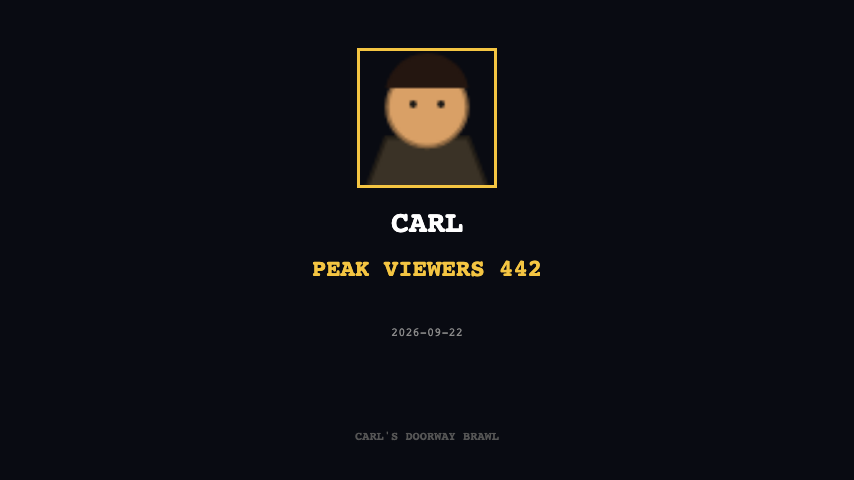
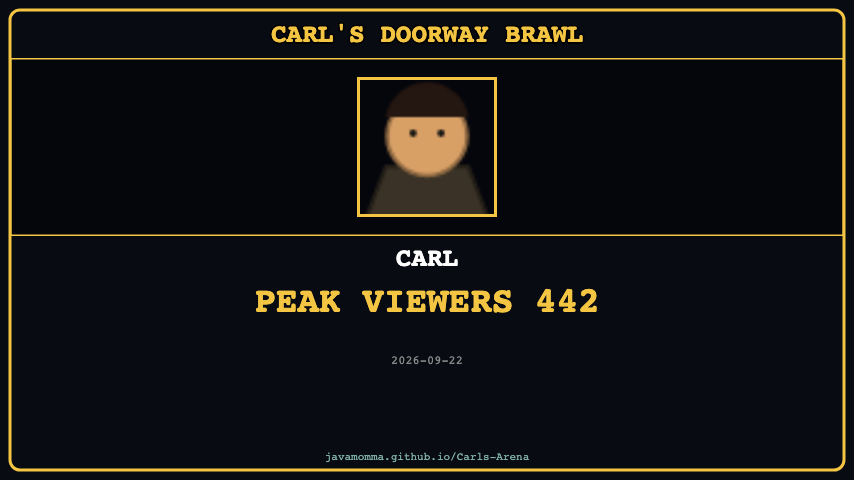
art: redesign the share card with a gold frame and dark stage strip
The share card was flat portrait/name/PEAK VIEWERS/date on plain
#090b12, over half of 854x480 empty -- the only artifact players post
publicly (final review Minor #8).

Redesigned G.shareCard(): a gold card frame at the HUD's own hpBar/
portrait stroke weight and color, a dark stage strip behind the
portrait (same read as the in-fight HUD's portrait-on-dark-stage), the
game's own title glyph at the top, PEAK VIEWERS sized up as the card's
headline stat, floor/boss-or-streak and date unchanged in substance,
and the play URL (a new G.PLAY_URL constant, matching README.md's own
link) in small text at the bottom. --share still asserts an 854x480
PNG (unchanged pixel dimensions, only the drawn content moved).
docs/shots/p5-share.png regenerated and viewed.

Changed region(s): [[0.0, 0.0, 1.0, 1.0], [0.4567, 0.6875, 0.548, 0.7812]]

diff --git a/index.html b/index.html
@@ -4146,35 +4146,62 @@ const G={state:'TITLE',fight:null,encounter:null,acc:0,last:0,sim:false,debug:fa
     if(r.xp)parts.push('+'+r.xp+' XP');
     if(r.units)parts.push('+'+r.units+' UNITS');
     return parts.join('  ')},
-  // Task 5.4: an 854x480 offscreen canvas (never attached to the DOM — a share card renders exactly
-  // like a screenshot, with no live #wrap/#btns/overlay chrome in it) summarizing the just-finished
-  // (or in-progress; nothing here requires f.over) fight: champion portrait, name, PEAK VIEWERS,
-  // floor/boss-or-streak, and today's date via Meta.today() (never a raw Date/performance.now() —
-  // same injectable-clock rule Meta.today() itself already enforces). Returns a PNG data URL;
-  // G.share() (below) is the one real caller, tests/harness.py's --share calls this directly.
+  // Fix-wave item 8 (final review, Minor): the play URL, in one place so the share card and any
+  // future caller stay in sync with README.md's own "Play it now" link.
+  PLAY_URL:'javamomma.github.io/Carls-Arena',
+  // Task 5.4 (redesigned per fix-wave item 8): an 854x480 offscreen canvas (never attached to the
+  // DOM — a share card renders exactly like a screenshot, with no live #wrap/#btns/overlay chrome in
+  // it) summarizing the just-finished (or in-progress; nothing here requires f.over) fight. The final
+  // review called the original layout thin (portrait/name/peak-viewers/date on flat #090b12, over
+  // half the frame empty) for the only artifact players post publicly -- this pass gives it a gold
+  // card frame (the HUD's own hpBar/portrait stroke weight and color, not a new style), a dark stage
+  // strip behind the portrait (mirrors the in-fight HUD's own portrait-on-dark-stage read), the
+  // game's own title glyph up top, a larger PEAK VIEWERS line, and the play URL in small text at the
+  // bottom so a screenshot of this card is itself an invitation. Returns a PNG data URL; G.share()
+  // (below) is the one real caller, tests/harness.py's --share calls this directly.
   shareCard(){
     const cv=document.createElement('canvas');cv.width=854;cv.height=480;
     const c=cv.getContext('2d');
+    const inset=10;
     c.fillStyle='#090b12';c.fillRect(0,0,cv.width,cv.height);
+    // Title glyph: the game's own name, bold/gold/black-stroked -- same "condensed FIGHTER wordmark"
+    // treatment the in-fight HUD bakes into Render.hudCache().title, redrawn plain here since a
+    // share card is built once per click, not once per frame.
+    c.textAlign='center';c.textBaseline='alphabetic';c.font='900 26px ui-monospace,monospace';
+    c.lineWidth=4;c.strokeStyle='#000';c.strokeText("CARL'S DOORWAY BRAWL",cv.width/2,42);
+    c.fillStyle='#f4c542';c.fillText("CARL'S DOORWAY BRAWL",cv.width/2,42);
+    // Dark stage strip behind the portrait -- a band darker than the card's own background, the same
+    // read as the in-fight HUD's portrait sitting on the dungeon stage rather than flat black.
+    const stageY=58,stageH=178;
+    c.fillStyle='#05060c';c.fillRect(inset,stageY,cv.width-inset*2,stageH);
+    c.strokeStyle='#f4c542';c.lineWidth=1.5;c.strokeRect(inset+.75,stageY+.75,cv.width-inset*2-1.5,stageH-1.5);
     const champId=this.champ||Save.data.active,def=DEFS[champId];
     if(def){
-      const portrait=Rig.portrait(lookFor(def)),pw=140,ph=140,px=cv.width/2-pw/2,py=48;
+      const portrait=Rig.portrait(lookFor(def)),pw=140,ph=140,px=cv.width/2-pw/2,py=stageY+(stageH-ph)/2;
       c.drawImage(portrait,px,py,pw,ph);
       c.strokeStyle='#f4c542';c.lineWidth=3;c.strokeRect(px+1.5,py+1.5,pw-3,ph-3)}
-    c.textAlign='center';c.fillStyle='#fff';c.font='900 30px ui-monospace,monospace';
-    c.fillText(def?def.name:'CHAMPION',cv.width/2,232);
-    c.fillStyle='#f4c542';c.font='bold 24px ui-monospace,monospace';
-    c.fillText('PEAK VIEWERS '+Render.fmtViewers(Broadcast.state.peak||0),cv.width/2,276);
+    c.textAlign='center';c.fillStyle='#fff';c.font='900 26px ui-monospace,monospace';
+    c.fillText(def?def.name:'CHAMPION',cv.width/2,stageY+stageH+30);
+    // PEAK VIEWERS: the card's own headline stat, sized up from the original pass so it reads as the
+    // one number worth sharing, not one line among several the same size.
+    c.fillStyle='#f4c542';c.font='900 36px ui-monospace,monospace';
+    c.fillText('PEAK VIEWERS '+Render.fmtViewers(Broadcast.state.peak||0),cv.width/2,stageY+stageH+76);
     // floor/boss for a quest fight, streak for an arena one, nothing for a bare exhibition -- mirrors
     // onFightEnd's own mode/questTarget reads just below.
     let prog='';
     if(this.mode==='quest'&&this.questTarget)prog='FLOOR '+this.questTarget.floor+(this.questTarget.node==='boss'?' — BOSS':'');
     else if(this.mode==='arena')prog='STREAK '+(Save.data.arena.streak||0);
-    if(prog){c.font='16px ui-monospace,monospace';c.fillStyle='#ccc';c.fillText(prog,cv.width/2,308)}
+    if(prog){c.font='16px ui-monospace,monospace';c.fillStyle='#ccc';c.fillText(prog,cv.width/2,stageY+stageH+104)}
     c.font='12px ui-monospace,monospace';c.fillStyle='#888';
-    c.fillText(Meta.today(),cv.width/2,336);
-    c.font='bold 12px ui-monospace,monospace';c.fillStyle='#555';
-    c.fillText("CARL'S DOORWAY BRAWL",cv.width/2,440);
+    c.fillText(Meta.today(),cv.width/2,stageY+stageH+128);
+    // Play URL, small text near the bottom -- the card is itself an invitation, not just a trophy.
+    c.font='11px ui-monospace,monospace';c.fillStyle='#7fb0a8';
+    c.fillText(this.PLAY_URL,cv.width/2,cv.height-inset-10);
+    // Gold card frame, drawn last so it sits over the strip/stat text edges cleanly -- same stroke
+    // color/weight the HUD's own hpBar/portrait frames already use, just once around the whole card.
+    c.strokeStyle='#f4c542';c.lineWidth=3;
+    if(c.roundRect){c.beginPath();c.roundRect(inset,inset,cv.width-inset*2,cv.height-inset*2,10);c.stroke()}
+    else c.strokeRect(inset+1.5,inset+1.5,cv.width-inset*2-3,cv.height-inset*2-3);
     return cv.toDataURL('image/png')},
   // navigator.share({files:[...]}) when the platform supports sharing an actual file (most mobile
   // browsers); otherwise falls back to downloadShareCard's plain <a download> link, which every

diff --git a/src/80_game.js b/src/80_game.js
@@ -471,35 +471,62 @@ const G={state:'TITLE',fight:null,encounter:null,acc:0,last:0,sim:false,debug:fa
     if(r.xp)parts.push('+'+r.xp+' XP');
     if(r.units)parts.push('+'+r.units+' UNITS');
     return parts.join('  ')},
-  // Task 5.4: an 854x480 offscreen canvas (never attached to the DOM — a share card renders exactly
-  // like a screenshot, with no live #wrap/#btns/overlay chrome in it) summarizing the just-finished
-  // (or in-progress; nothing here requires f.over) fight: champion portrait, name, PEAK VIEWERS,
-  // floor/boss-or-streak, and today's date via Meta.today() (never a raw Date/performance.now() —
-  // same injectable-clock rule Meta.today() itself already enforces). Returns a PNG data URL;
-  // G.share() (below) is the one real caller, tests/harness.py's --share calls this directly.
+  // Fix-wave item 8 (final review, Minor): the play URL, in one place so the share card and any
+  // future caller stay in sync with README.md's own "Play it now" link.
+  PLAY_URL:'javamomma.github.io/Carls-Arena',
+  // Task 5.4 (redesigned per fix-wave item 8): an 854x480 offscreen canvas (never attached to the
+  // DOM — a share card renders exactly like a screenshot, with no live #wrap/#btns/overlay chrome in
+  // it) summarizing the just-finished (or in-progress; nothing here requires f.over) fight. The final
+  // review called the original layout thin (portrait/name/peak-viewers/date on flat #090b12, over
+  // half the frame empty) for the only artifact players post publicly -- this pass gives it a gold
+  // card frame (the HUD's own hpBar/portrait stroke weight and color, not a new style), a dark stage
+  // strip behind the portrait (mirrors the in-fight HUD's own portrait-on-dark-stage read), the
+  // game's own title glyph up top, a larger PEAK VIEWERS line, and the play URL in small text at the
+  // bottom so a screenshot of this card is itself an invitation. Returns a PNG data URL; G.share()
+  // (below) is the one real caller, tests/harness.py's --share calls this directly.
   shareCard(){
     const cv=document.createElement('canvas');cv.width=854;cv.height=480;
     const c=cv.getContext('2d');
+    const inset=10;
     c.fillStyle='#090b12';c.fillRect(0,0,cv.width,cv.height);
+    // Title glyph: the game's own name, bold/gold/black-stroked -- same "condensed FIGHTER wordmark"
+    // treatment the in-fight HUD bakes into Render.hudCache().title, redrawn plain here since a
+    // share card is built once per click, not once per frame.
+    c.textAlign='center';c.textBaseline='alphabetic';c.font='900 26px ui-monospace,monospace';
+    c.lineWidth=4;c.strokeStyle='#000';c.strokeText("CARL'S DOORWAY BRAWL",cv.width/2,42);
+    c.fillStyle='#f4c542';c.fillText("CARL'S DOORWAY BRAWL",cv.width/2,42);
+    // Dark stage strip behind the portrait -- a band darker than the card's own background, the same
+    // read as the in-fight HUD's portrait sitting on the dungeon stage rather than flat black.
+    const stageY=58,stageH=178;
+    c.fillStyle='#05060c';c.fillRect(inset,stageY,cv.width-inset*2,stageH);
+    c.strokeStyle='#f4c542';c.lineWidth=1.5;c.strokeRect(inset+.75,stageY+.75,cv.width-inset*2-1.5,stageH-1.5);
     const champId=this.champ||Save.data.active,def=DEFS[champId];
     if(def){
-      const portrait=Rig.portrait(lookFor(def)),pw=140,ph=140,px=cv.width/2-pw/2,py=48;
+      const portrait=Rig.portrait(lookFor(def)),pw=140,ph=140,px=cv.width/2-pw/2,py=stageY+(stageH-ph)/2;
       c.drawImage(portrait,px,py,pw,ph);
       c.strokeStyle='#f4c542';c.lineWidth=3;c.strokeRect(px+1.5,py+1.5,pw-3,ph-3)}
-    c.textAlign='center';c.fillStyle='#fff';c.font='900 30px ui-monospace,monospace';
-    c.fillText(def?def.name:'CHAMPION',cv.width/2,232);
-    c.fillStyle='#f4c542';c.font='bold 24px ui-monospace,monospace';
-    c.fillText('PEAK VIEWERS '+Render.fmtViewers(Broadcast.state.peak||0),cv.width/2,276);
+    c.textAlign='center';c.fillStyle='#fff';c.font='900 26px ui-monospace,monospace';
+    c.fillText(def?def.name:'CHAMPION',cv.width/2,stageY+stageH+30);
+    // PEAK VIEWERS: the card's own headline stat, sized up from the original pass so it reads as the
+    // one number worth sharing, not one line among several the same size.
+    c.fillStyle='#f4c542';c.font='900 36px ui-monospace,monospace';
+    c.fillText('PEAK VIEWERS '+Render.fmtViewers(Broadcast.state.peak||0),cv.width/2,stageY+stageH+76);
     // floor/boss for a quest fight, streak for an arena one, nothing for a bare exhibition -- mirrors
     // onFightEnd's own mode/questTarget reads just below.
     let prog='';
     if(this.mode==='quest'&&this.questTarget)prog='FLOOR '+this.questTarget.floor+(this.questTarget.node==='boss'?' — BOSS':'');
     else if(this.mode==='arena')prog='STREAK '+(Save.data.arena.streak||0);
-    if(prog){c.font='16px ui-monospace,monospace';c.fillStyle='#ccc';c.fillText(prog,cv.width/2,308)}
+    if(prog){c.font='16px ui-monospace,monospace';c.fillStyle='#ccc';c.fillText(prog,cv.width/2,stageY+stageH+104)}
     c.font='12px ui-monospace,monospace';c.fillStyle='#888';
-    c.fillText(Meta.today(),cv.width/2,336);
-    c.font='bold 12px ui-monospace,monospace';c.fillStyle='#555';
-    c.fillText("CARL'S DOORWAY BRAWL",cv.width/2,440);
+    c.fillText(Meta.today(),cv.width/2,stageY+stageH+128);
+    // Play URL, small text near the bottom -- the card is itself an invitation, not just a trophy.
+    c.font='11px ui-monospace,monospace';c.fillStyle='#7fb0a8';
+    c.fillText(this.PLAY_URL,cv.width/2,cv.height-inset-10);
+    // Gold card frame, drawn last so it sits over the strip/stat text edges cleanly -- same stroke
+    // color/weight the HUD's own hpBar/portrait frames already use, just once around the whole card.
+    c.strokeStyle='#f4c542';c.lineWidth=3;
+    if(c.roundRect){c.beginPath();c.roundRect(inset,inset,cv.width-inset*2,cv.height-inset*2,10);c.stroke()}
+    else c.strokeRect(inset+1.5,inset+1.5,cv.width-inset*2-3,cv.height-inset*2-3);
     return cv.toDataURL('image/png')},
   // navigator.share({files:[...]}) when the platform supports sharing an actual file (most mobile
   // browsers); otherwise falls back to downloadShareCard's plain <a download> link, which every
